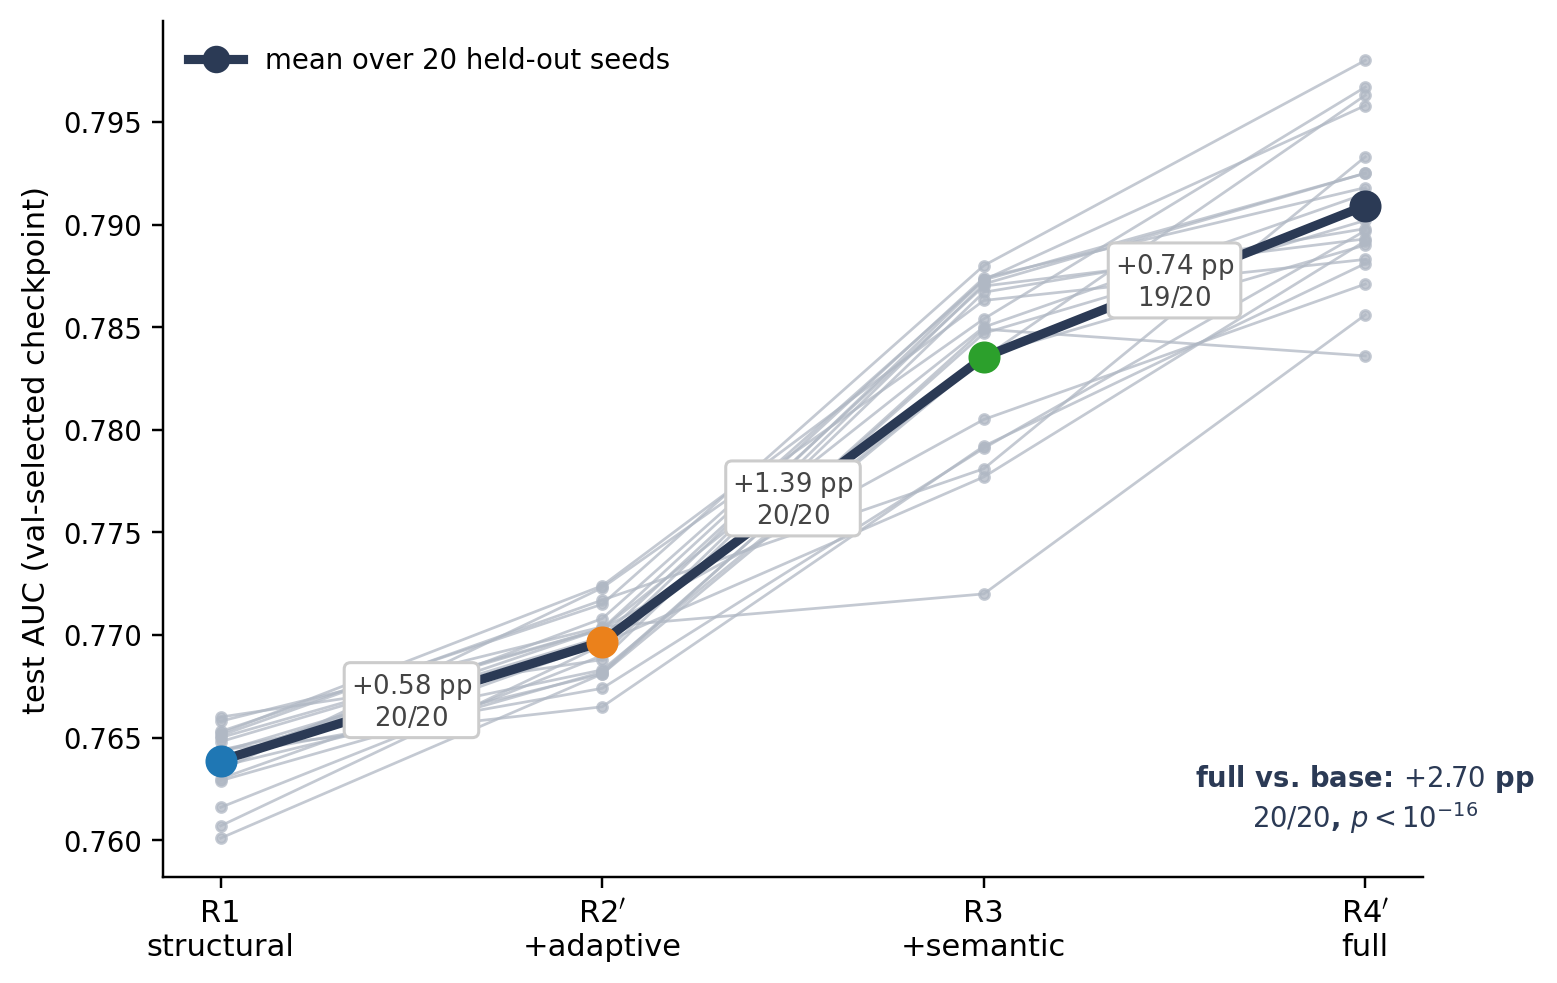
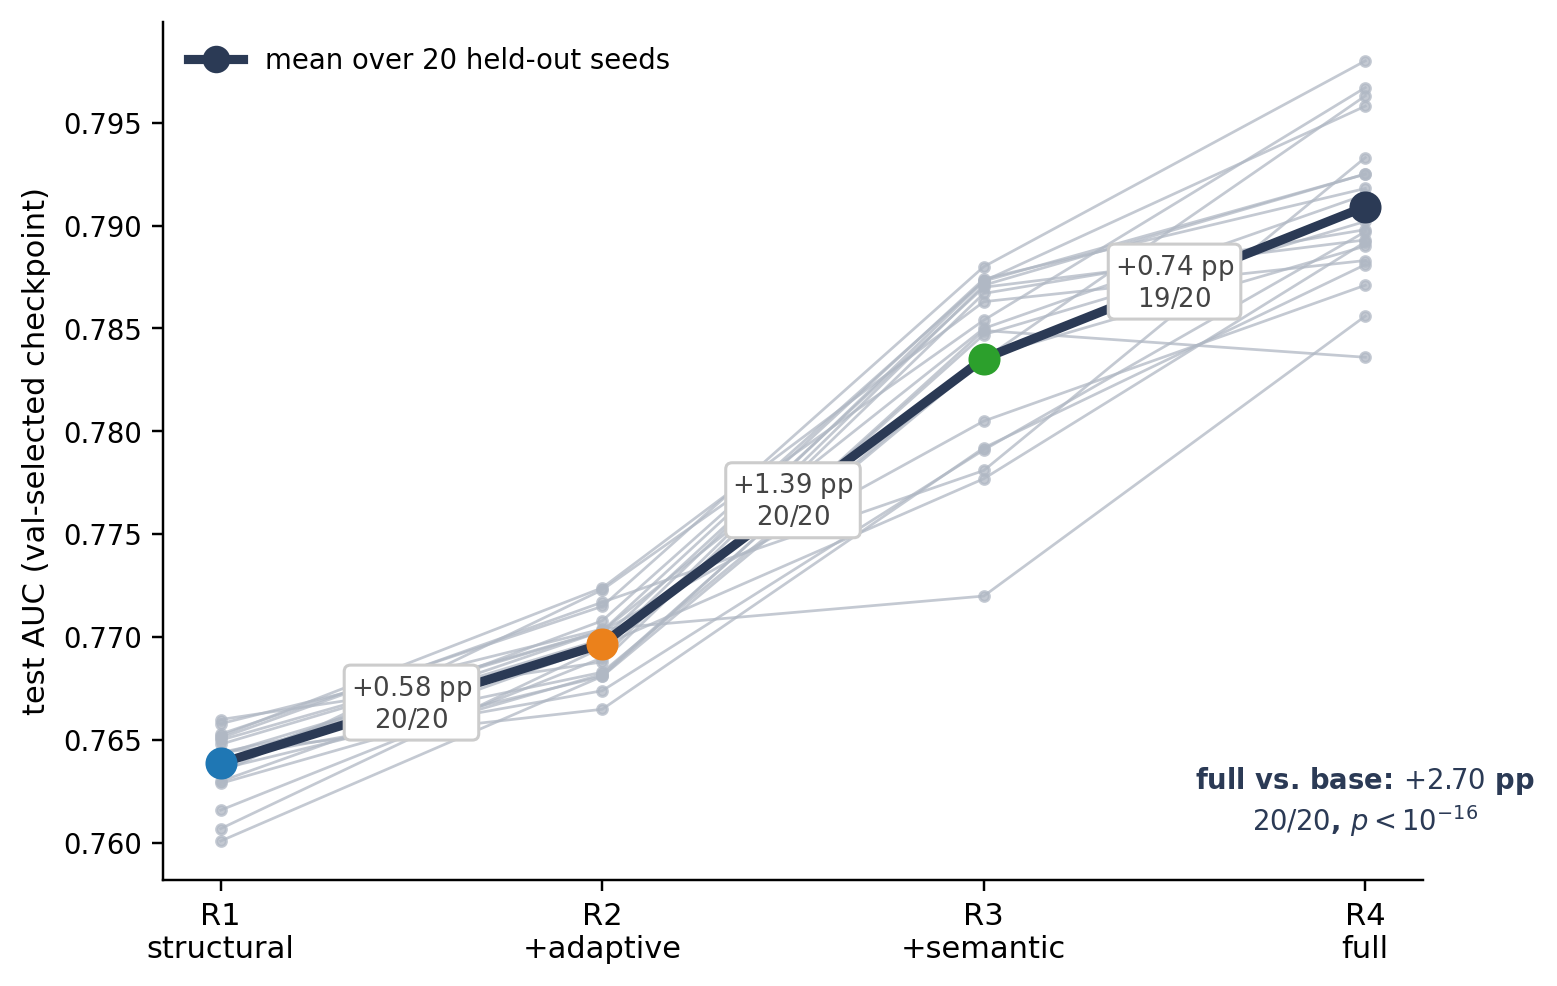
Drop prime notation: clean configs are now just R1-R4
The R2/R4 prior-initialised rows no longer appear in the ablation table, so the primes marking the de-confounded variants are redundant. Fold the masked numbers into the prose and regenerate the seed figure with plain labels.

diff --git a/papers/my_paper/extracted/main.tex b/papers/my_paper/extracted/main.tex
@@ -47,7 +47,7 @@ In response, fraudsters deliberately evade neighbourhood aggregation. They alter
 
 Prior work typically addresses these capabilities in isolation. CARE-GNN \cite{dou2020enhancing} introduced reinforcement-learning-guided neighbour selection, but uses a heuristic Bernoulli bandit with a single global threshold per relation and limited ability to adapt per node or incorporate external signals. RioGNN \cite{peng2022reinforced} refined this idea with recursive multi-relation policies, but still relies on a largely structural state representation. Recent GNN--LLM integrations for fraud detection---notably FLAG \cite{yang2025flag}---inject LLM-derived signals into node features and sampling decisions, but do not learn a policy that dynamically weights relations at the node level. To the best of our knowledge, no prior work unifies structural, adaptive, and semantic reasoning within a single end-to-end framework.
 
-We argue that such unification is necessary under camouflage: structural reasoning alone can be misled by adversarial connectivity, adaptive reasoning without external signals can only refine what the structural layer already observes, and semantic reasoning without relational grounding can miss the coordinated structure that defines fraud rings. We instantiate this unified design and, through a pillar-wise ablation, quantify how much each mode of reasoning contributes---finding every pillar individually significant under held-out evaluation, the semantic pillar largest, and the two learned pillars composable once an inadvertently suppressive coupling between them is removed (Section~\ref{sec:results}).
+We argue that such unification is necessary under camouflage: structural reasoning alone can be misled by adversarial connectivity, adaptive reasoning without external signals can only refine what the structural layer already observes, and semantic reasoning without relational grounding can miss the coordinated structure that defines fraud rings. We instantiate this unified design and, through a pillar-wise ablation, quantify how much each mode of reasoning contributes---finding every pillar individually significant under held-out evaluation, the semantic pillar largest, and the two learned pillars composable once a suppressive coupling between them is removed (Section~\ref{sec:results}).
 
 We propose a three-pillar framework to close this gap. The structural pillar uses a multi-relation GNN backbone (we instantiate it with CARE-GNN \cite{dou2020enhancing}). The adaptive pillar replaces CARE-GNN's heuristic bandit with the Camouflage-Aware Policy Network (CAPN), an actor--critic policy that outputs per-node, per-relation filtering thresholds conditioned on a rich state vector. The semantic pillar leverages a large language model (LLM) to compute (i) structural-reasoning scores that enrich the policy state and (ii) fraud-specific textual risk scores that are injected into node features via a gated residual module that preserves feature dimensionality. All LLM outputs are precomputed and cached, making training cost independent of the external model. The three pillars are trained end-to-end under a single joint objective.
 
@@ -400,10 +400,10 @@ Table~\ref{tab:framework} builds the framework on the CARE-GNN backbone one
 pillar at a time and reports every configuration twice: on the five exploration
 seeds used throughout development, and---for every headline claim---on twenty
 \emph{held-out} seeds never used in any tuning decision. The structural
-backbone alone (R1) reaches $0.7639$ on the held-out set. The clean adaptive
-pillar (R2$'$) adds $+0.58$~pp (positive on $20/20$ seeds, $p<10^{-4}$); the
+backbone alone (R1) reaches $0.7639$ on the held-out set. The adaptive
+pillar (R2) adds $+0.58$~pp (positive on $20/20$ seeds, $p<10^{-4}$); the
 semantic pillar (R3) adds $+1.97$~pp ($20/20$, $p<10^{-12}$); and the full
-framework (R4$'$) reaches $0.7909$, $+2.70$~pp over the backbone ($20/20$,
+framework (R4) reaches $0.7909$, $+2.70$~pp over the backbone ($20/20$,
 $p<10^{-16}$). Critically, the pillars \emph{compose}: on top of the semantic
 signal the learned policy adds a further $+0.74$~pp ($19/20$, $p<10^{-6}$), and
 on top of the policy the semantic signal adds $+2.12$~pp ($20/20$,
@@ -426,47 +426,50 @@ is the visual form of the paired $t$-tests in Table~\ref{tab:framework}.}
 \label{fig:ablation-seeds}
 \end{figure}
 
-\begin{table}[!t]
+\begin{table}[H]
 \centering
 \small
 \setlength{\tabcolsep}{4pt}
-\caption{Pillar-wise ablation on the CARE-GNN backbone, YelpChi $25/15/60$
-(mean $\pm$ sample std). Exploration = seeds 72--76; held-out = seeds 100--119,
-never used in tuning. R2/R4 are the original configurations whose LLM-prior
-initialisation \emph{suppresses} the policy; R2$'$/R4$'$ remove it. Paired
-deltas and $p$-values for all comparisons are given in the text.}
+\caption{Pillar-wise ablation on the CARE-GNN backbone (mean $\pm$ sample std;
+exploration seeds 72--76, held-out seeds 100--119, never used in tuning).
+Paired deltas and $p$-values are given in the text.}
 \label{tab:framework}
 \begin{tabularx}{\linewidth}{@{}Xcc@{}}
 \toprule
 Configuration & AUC (5 expl.) & AUC (20 held-out) \\
 \midrule
 R1\;CARE-GNN          & $0.7648 \pm 0.0020$ & $0.7639 \pm 0.0016$ \\
-R2\; \;+\,LLM-prior & $0.7667 \pm 0.0006$ & --- \\
-R2$'$ \;+\,Adaptive (clean)         & $0.7688 \pm 0.0023$ & $0.7697 \pm 0.0016$ \\
-R3\; \;+\,Semantic                  & $0.7817 \pm 0.0026$ & $0.7835 \pm 0.0043$ \\
-R4\; Full (LLM-prior init)          & $0.7838 \pm 0.0050$ & --- \\
-R4$'$ Full (clean)                  & $\mathbf{0.7909 \pm 0.0035}$ & $\mathbf{0.7909 \pm 0.0038}$ \\
+R2\;+\,Adaptive       & $0.7688 \pm 0.0023$ & $0.7697 \pm 0.0016$ \\
+R3\;+\,Semantic       & $0.7817 \pm 0.0026$ & $0.7835 \pm 0.0043$ \\
+R4\;Full              & $\mathbf{0.7909 \pm 0.0035}$ & $\mathbf{0.7909 \pm 0.0038}$ \\
 \bottomrule
 \end{tabularx}
 \end{table}
 
-The R2$'$/R4$'$ rows exist because we nearly reported the adaptive pillar
-wrong: under its original LLM-prior initialisation it looked null both alone
-($+0.19$~pp, $p=0.10$) and stacked ($+0.21$~pp, $p=0.30$). De-confounding
-revealed the priors were \emph{suppressing} the policy ($-0.21$~pp alone,
-$-0.71$~pp in the full framework); with a neutral initialisation both effects
-are real and held-out confirmed. The framework's second semantic-to-adaptive
-coupling---LLM scores in the policy state---likewise contributes nothing
-measurable ($+0.33$~pp on removal, $p=0.44$). The lesson: hand-designed
-couplings between pillars can silently suppress the components they are meant
-to help, and only de-confounded ablation exposes this.
+Attributing the framework's gain pillar by pillar requires that each
+configuration measure its pillar and nothing else. Our original design coupled
+the pillars at two points---the policy was initialised from LLM-derived
+priors, and LLM scores entered the policy state---so isolating the adaptive
+pillar meant removing both, and doing so matters for the attribution: under
+the prior initialisation the adaptive contribution is masked ($+0.19$~pp over
+R1, $p=0.10$, AUC $0.7667 \pm 0.0006$ alone; $+0.21$~pp over R3, $p=0.30$,
+$0.7838 \pm 0.0050$ stacked), because the priors \emph{suppress} the policy
+they were meant to assist ($-0.21$~pp alone, $-0.71$~pp in the full
+framework). With a neutral initialisation the pillar's true effect emerges and
+is held-out confirmed---these are the clean configurations
+Table~\ref{tab:framework} reports, in which every pillar demonstrably earns
+its place. The scores-in-state coupling likewise contributes nothing
+measurable ($+0.33$~pp on removal, $p=0.44$). Beyond attribution hygiene, this
+is a design finding in its own right: hand-designed couplings between pillars
+can suppress the components they are meant to help, and de-confounded ablation
+both exposes and removes that cost.
 
 Repeating the ablation on a higher-capacity variant of the backbone (nonlinear
 feature encoder, ego/neighbour separation, cosine schedule; five matched seeds,
 prior-initialised) sharpens the picture: the semantic gain \emph{grows}
-($+2.96$~pp, full framework $0.7951 \pm 0.0032$, $p<0.01$), the adaptive rows
-stay within that variant's larger seed noise ($\pm 0.012$, enough to mask a
-$+0.4$~pp-scale effect), and---unexpectedly---the added capacity is
+($+2.96$~pp, full framework $0.7951 \pm 0.0032$, $p<0.01$), the adaptive
+configurations stay within that variant's larger seed noise ($\pm 0.012$,
+enough to mask a $+0.4$~pp-scale effect), and---unexpectedly---the added capacity is
 \emph{unstable} without the semantic signal: one seed collapses to
 ${\approx}0.745$ in both LLM-free configurations, while both LLM-equipped ones
 train stably (${\pm}0.003$--$0.004$) on every seed. Capacity pays off only when
@@ -658,17 +661,16 @@ improving six of eight external backbones, including the benchmark-leading
 tree-aggregation method, while stabilising training on every fragile host we
 encountered. The pillar-wise attribution is equally clear and we state it
 plainly: the semantic pillar contributes the largest gain; the adaptive pillar
-contributes a smaller one that our own initial design obscured---the LLM-derived
-prior initialisation suppressed the policy, and only a reviewer-style
-de-confounding followed by twenty-seed held-out confirmations revealed the
-clean effects: $+0.58$~pp alone and, once the suppression was removed from the
-full framework as well, $+0.74$~pp composed on top of the semantic pillar
-($19/20$ seeds, $p<10^{-6}$). Every pillar of the framework now carries a
+contributes a smaller one whose clean measurement required de-confounding---the
+LLM-derived prior initialisation suppresses the policy, and removing it,
+followed by twenty-seed held-out confirmations, establishes the pillar's true
+effects: $+0.58$~pp alone and $+0.74$~pp composed on top of the semantic pillar
+($19/20$ seeds, $p<10^{-6}$). Every pillar of the framework thus carries a
 rigorously established, held-out-confirmed contribution, and the two learned
 pillars compose rather than substitute. A unified
 framework whose components can be measured, detached, and re-hosted is
-precisely what makes that accounting---and the discovery of our own
-mis-attribution---possible; enlarging the adaptive effect beyond the noise
+precisely what makes that accounting---and the detection of suppressive
+couplings---possible; enlarging the adaptive effect beyond the noise
 floor of high-variance hosts is the framework's next step.
 
 

diff --git a/papers/my_paper/make_result_figures.py b/papers/my_paper/make_result_figures.py
@@ -33,7 +33,7 @@ r2 = dict(zip(conf2["seeds"], conf2["r2_no_priors_auc"]))
 r3 = {r["seed"]: r["auc"] for r in load("r3_holdout20.json")["per_seed"]}
 r4 = dict(zip(seeds, load("r4_clean_confirmation_n20.json")["r4_auc"]))
 
-configs = ["R1\nstructural", "R2$'$\n+adaptive", "R3\n+semantic", "R4$'$\nfull"]
+configs = ["R1\nstructural", "R2\n+adaptive", "R3\n+semantic", "R4\nfull"]
 data = np.array([[r1[s], r2[s], r3[s], r4[s]] for s in seeds])  # (20, 4)
 
 fig, ax = plt.subplots(figsize=(7.2, 4.6))
